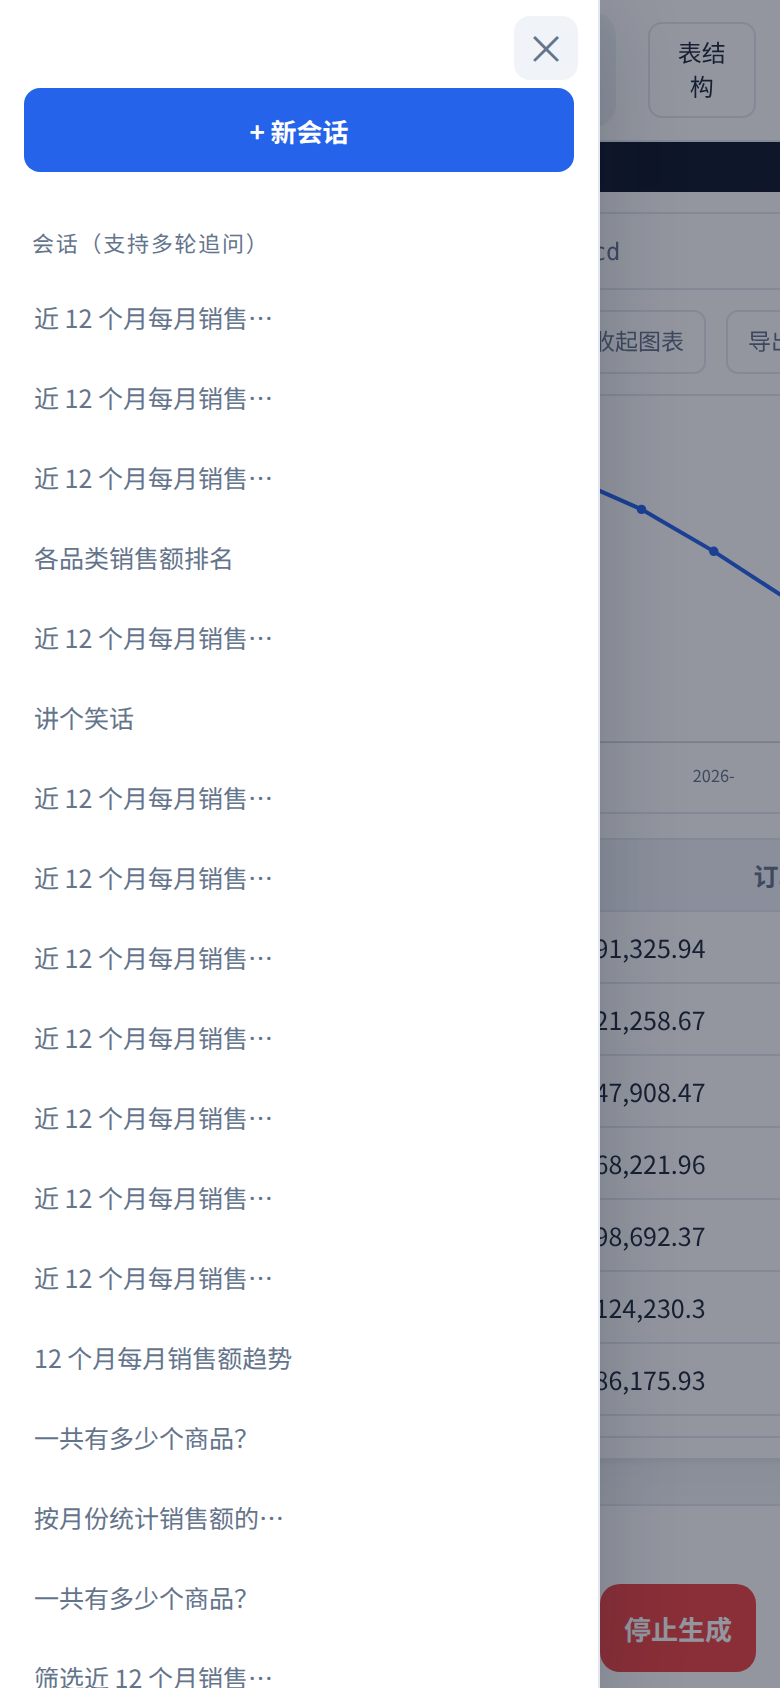
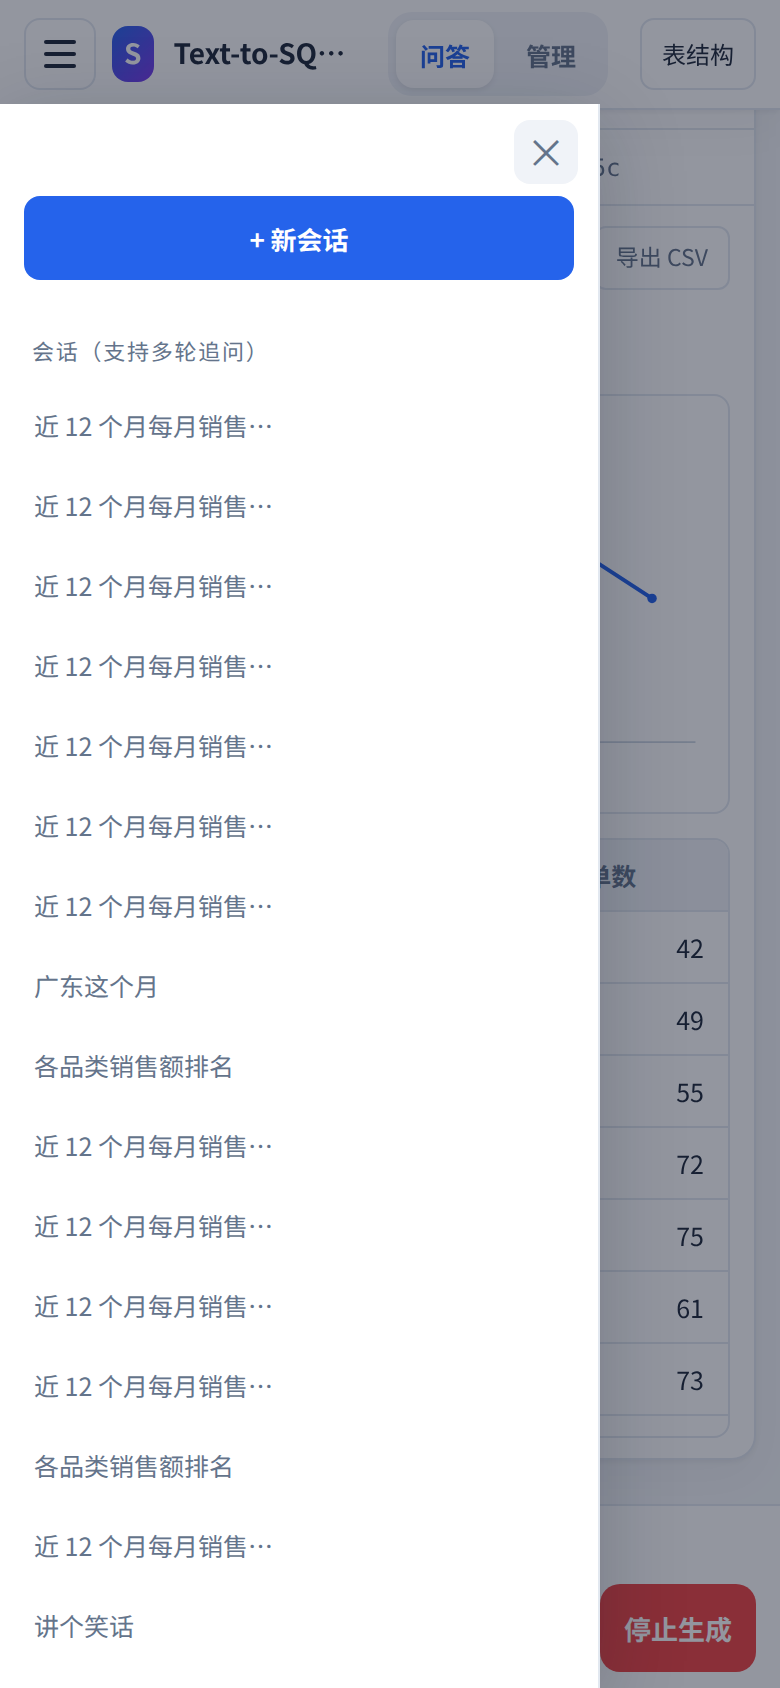
fix: 移动端适配（问答端 + 管理后台 14 屏）
审计脚本：390×844 逐屏跑，检查横向溢出、触控目标、console 错误。

修复：
- 问答端助手卡片被超宽 SQL 撑破（.msg 在 flex 列里被 auto margin 变成 fit-content）：
  窄屏下 .msg 固定 100%，SQL 块/表格/图表各自内部滚动
- 管理后台内联 grid 改成类，窄屏折叠成单列（概览 4 卡两列、会话回放上下排）
- 顶栏在窄屏换行：单行不换行、品牌名截断、按钮文字不竖排
- 抽屉面板改为从顶栏下方开始，顶栏按钮保持可点；新会话按钮避开关闭按钮
- 管理端侧栏在窄屏改成横向滚动条，条目按内容宽度而不是每条占满一屏
- 宽表格在卡片内横向滚动（min-width 480），不再撑破页面
- 触控目标：复选框本体 20px 外面套 40px label，小按钮最小 34px
- 输入框字号 16px，避免 iOS 聚焦自动放大
- 管理端补「退出登录」入口（窄屏顶栏没有退出按钮）
- KPI 卡片窄屏两列一屏，数字 22px

端到端 30/30 通过；截图更新 mobile.png / mobile-drawer.png

diff --git a/frontend/src/style.css b/frontend/src/style.css
@@ -301,6 +301,7 @@ tbody tr:hover { background: #f8fafc; }
   .session-item, .quick-item { min-height: 40px; padding-top: 10px; padding-bottom: 10px; }
 
   .messages { padding: 14px 12px 8px; }
+  .msg { width: 100%; }            /* 窄屏下不被超宽 SQL 撑破 */
   .messages > .empty { padding-left: 22px; padding-right: 22px; line-height: 2; }
   .msg { margin-bottom: 14px; }
   .msg-user .bubble { max-width: 88%; font-size: 14px; }
@@ -564,7 +565,7 @@ tbody tr:hover { background: #f8fafc; }
   }
   .adm-sider-title { display: none; }
   .adm-nav { flex: none; margin: 0; }
-  .adm-main { padding: 14px 12px 32px; }
+  .adm-main { padding: 14px 12px 32px; overflow-x: hidden; }
   .adm-page-head h1 { font-size: 18px; }
   .adm-g2, .adm-g4 { grid-template-columns: 1fr; }
   .view-tabs { gap: 4px; }
@@ -576,3 +577,92 @@ tbody tr:hover { background: #f8fafc; }
 .adm-btn.danger:hover { background: #fef2f2; }
 .adm-chart { width: 100%; }
 .adm-chart svg { width: 100%; height: 120px; display: block; }
+
+/* ---------------- 移动端：管理后台重排 ---------------- */
+.adm-cols-main { grid-template-columns: 1.55fr 1fr; margin-bottom: 14px; align-items: start; }
+.adm-cols-3 { grid-template-columns: 1fr 1fr 1fr; margin-bottom: 14px; align-items: start; }
+.adm-cols-side { grid-template-columns: 1fr 380px; align-items: start; }
+.adm-cols-split { grid-template-columns: 300px 1fr; align-items: start; }
+.adm-logout { display: none; }
+
+@media (max-width: 1100px) {
+  .adm-cols-main, .adm-cols-3, .adm-cols-side, .adm-cols-split { grid-template-columns: 1fr; }
+}
+
+@media (max-width: 860px) {
+  /* 侧栏变成横向滚动条：条目按内容宽度排，不再每条占满一屏 */
+  .adm-nav { width: auto; flex: none; min-height: 40px; }
+  .adm-nav-foot { display: flex; gap: 6px; margin-left: auto; padding-left: 8px; }
+  .adm-logout { display: inline-block; }
+  /* 宽表格：卡片内横向滚动，不撑破页面 */
+  .adm-table { overflow-x: auto; -webkit-overflow-scrolling: touch; }
+  .adm-table table { min-width: 560px; }
+  .adm-truncate { max-width: 100%; }
+  /* 触控目标：复选框与小按钮都不小于 32px */
+  .adm-card input[type="checkbox"] { width: 20px; height: 20px; }
+  .adm-btn.sm { min-height: 34px; }
+  /* 输入框 16px，避免 iOS 聚焦时自动放大 */
+  .adm-input, .adm-area { font-size: 16px; }
+  .adm-area { line-height: 1.5; }
+  /* 标题区换行，右侧操作另起一行 */
+  .adm-page-head { flex-wrap: wrap; align-items: flex-start; }
+  .adm-page-head .right { margin-left: 0; width: 100%; flex-wrap: wrap; }
+  .adm-page-head .right .adm-input { flex: 1 1 140px; width: auto; }
+  .adm-grid { gap: 10px; }
+  .adm-kv { grid-template-columns: 92px 1fr; }
+  .adm-scroll { max-height: 42vh; }
+  .adm-list-card { padding: 12px; }
+  .adm-foot { margin-top: 16px; }
+  /* 抽屉面板从顶栏下方开始，顶栏按钮保持可点 */
+  .sidebar, .schema-panel { top: 52px; }
+  .new-chat { margin-top: 46px; }   /* 给抽屉右上角的关闭按钮留位置 */
+}
+
+/* 复选框：本体 20px，外层 label 撑到 40px 触控区 */
+.adm-check {
+  display: inline-flex; align-items: center; justify-content: center;
+  min-width: 40px; min-height: 40px; cursor: pointer;
+}
+.adm-check input[type="checkbox"] { width: 20px; height: 20px; accent-color: var(--primary); }
+.adm-check-text { gap: 8px; justify-content: flex-start; margin-bottom: 8px; }
+.sr-only {
+  position: absolute; width: 1px; height: 1px; padding: 0; margin: -1px;
+  overflow: hidden; clip: rect(0 0 0 0); white-space: nowrap; border: 0;
+}
+
+@media (max-width: 860px) {
+  /* 顶栏单行不换行：品牌名可截断，按钮文字不竖排 */
+  .topbar { flex-wrap: nowrap; }
+  .brand { min-width: 0; flex: 1 1 auto; }
+  .brand > div { min-width: 0; overflow: hidden; text-overflow: ellipsis; white-space: nowrap; }
+  .tbtn, .view-tabs .tbtn { white-space: nowrap; }
+  .view-tabs { flex: none; }
+  .view-tabs .tbtn { padding: 6px 12px; }
+  /* 表格横向滚动幅度收一点 */
+  .adm-table table { min-width: 480px; }
+}
+
+@media (max-width: 860px) {
+  /* KPI 两列一屏看更多，卡片收紧 */
+  .adm-g4 { grid-template-columns: repeat(2, 1fr); }
+  .adm-card.adm-pad { padding: 14px; }
+  .adm-kpi .n { font-size: 22px; }
+  .adm-kpi .l { font-size: 11.5px; line-height: 1.5; }
+  .adm-h2 { margin-bottom: 10px; }
+  .adm-page-head h1 { font-size: 18px; }
+  .adm-page-head p { font-size: 12px; }
+}
+
+/* 聊天卡片不被超宽内容（SQL 块 / 表格）撑破：窄屏下内部各自滚动 */
+.messages > * { min-width: 0; }
+.msg, .assistant-card, .card-section { min-width: 0; }
+.sql-block, .sql-block pre, .table-wrap, .chart-box, .insight-box { max-width: 100%; }
+
+/* 表单控件允许收缩：input 的默认 size 会把表格列撑到 180px+ */
+.adm-input, .adm-area { min-width: 0; }
+@media (max-width: 860px) {
+  .adm-table input { min-width: 72px; }
+  .adm-table td { max-width: 240px; }
+  .adm-table td.sql { max-width: 200px; }
+}
+

diff --git a/frontend/src/components/AdminPanel.vue b/frontend/src/components/AdminPanel.vue
@@ -42,7 +42,7 @@
           </div>
         </div>
 
-        <div class="adm-grid" style="grid-template-columns:1.55fr 1fr;margin-bottom:14px;align-items:start">
+        <div class="adm-grid adm-cols-main">
           <div class="adm-card adm-pad">
             <div class="adm-between" style="margin-bottom:12px">
               <div class="adm-h2" style="margin:0">近 14 天调用趋势</div>
@@ -80,7 +80,7 @@
           </div>
         </div>
 
-        <div class="adm-grid" style="grid-template-columns:1fr 1fr 1fr;margin-bottom:14px;align-items:start">
+        <div class="adm-grid adm-cols-3">
           <div class="adm-card adm-pad">
             <div class="adm-between" style="margin-bottom:8px">
               <div class="adm-h2" style="margin:0">模型用量与成本</div>
@@ -187,7 +187,7 @@
                       <option value="rose">rose</option><option value="amber">amber</option><option value="info">info</option>
                     </select>
                   </td>
-                  <td><input type="checkbox" v-model="r.enabled" /></td>
+                  <td><label class="adm-check"><input type="checkbox" v-model="r.enabled" /><span class="sr-only">启用 {{ r.name }}</span></label></td>
                 </tr>
               </tbody>
             </table>
@@ -406,7 +406,7 @@
           </div>
         </div>
 
-        <div class="adm-grid" style="grid-template-columns:300px 1fr;align-items:start">
+        <div class="adm-grid adm-cols-split">
           <div class="adm-card adm-scroll" style="max-height:70vh">
             <div v-for="s in sessions" :key="s.session_id" class="adm-list-card"
                  style="cursor:pointer" @click="openSession(s.session_id)">
@@ -499,7 +499,9 @@
                 <span v-if="it.restart" class="adm-badge amber" style="margin-left:6px">需重启</span>
               </label>
               <div class="adm-row" style="gap:8px">
-                <input v-if="it.kind === 'bool'" type="checkbox" v-model="configDraft[it.key]" />
+                <label v-if="it.kind === 'bool'" class="adm-check">
+                  <input type="checkbox" v-model="configDraft[it.key]" />
+                </label>
                 <select v-else-if="it.kind === 'enum'" class="adm-input" v-model="configDraft[it.key]">
                   <option v-for="o in it.options" :key="o" :value="o">{{ o }}</option>
                 </select>
@@ -544,7 +546,7 @@
               <textarea class="adm-area" rows="6" v-model="promptForm.body"
                         placeholder="【团队口径】统计有效成交时排除 cancelled / refunded 订单"></textarea>
             </div>
-            <label class="adm-tiny adm-muted" style="display:block;margin-bottom:8px">
+            <label class="adm-check adm-check-text adm-tiny adm-muted">
               <input type="checkbox" v-model="promptForm.activate" /> 保存后立即生效
             </label>
             <button class="adm-btn primary" :disabled="saving || promptForm.body.length < 5" @click="savePrompt">
@@ -929,7 +931,7 @@ import { computed, onMounted, reactive, ref, watch } from 'vue'
 import { api } from '../api'
 import TrendChart from './TrendChart.vue'
 
-const emit = defineEmits(['toast', 'open-chat'])
+const emit = defineEmits(['toast', 'open-chat', 'logout'])
 const tab = ref('overview')
 
 const overview = ref(null)

diff --git a/frontend/src/App.vue b/frontend/src/App.vue
@@ -164,7 +164,8 @@
       <SchemaPanel v-if="showSchema" :tables="meta?.tables || []" @close="showSchema = false" />
     </div>
 
-    <AdminPanel v-else :status="status" :health="health" @toast="showToast" @open-chat="switchView('chat')" />
+    <AdminPanel v-else :status="status" :health="health" @toast="showToast"
+                  @open-chat="switchView('chat')" @logout="logout" />
 
     <div class="drawer-mask" v-if="menuOpen || showSchema" @click="closeDrawers"></div>
     <div class="toast" v-if="toastText">{{ toastText }}</div>
